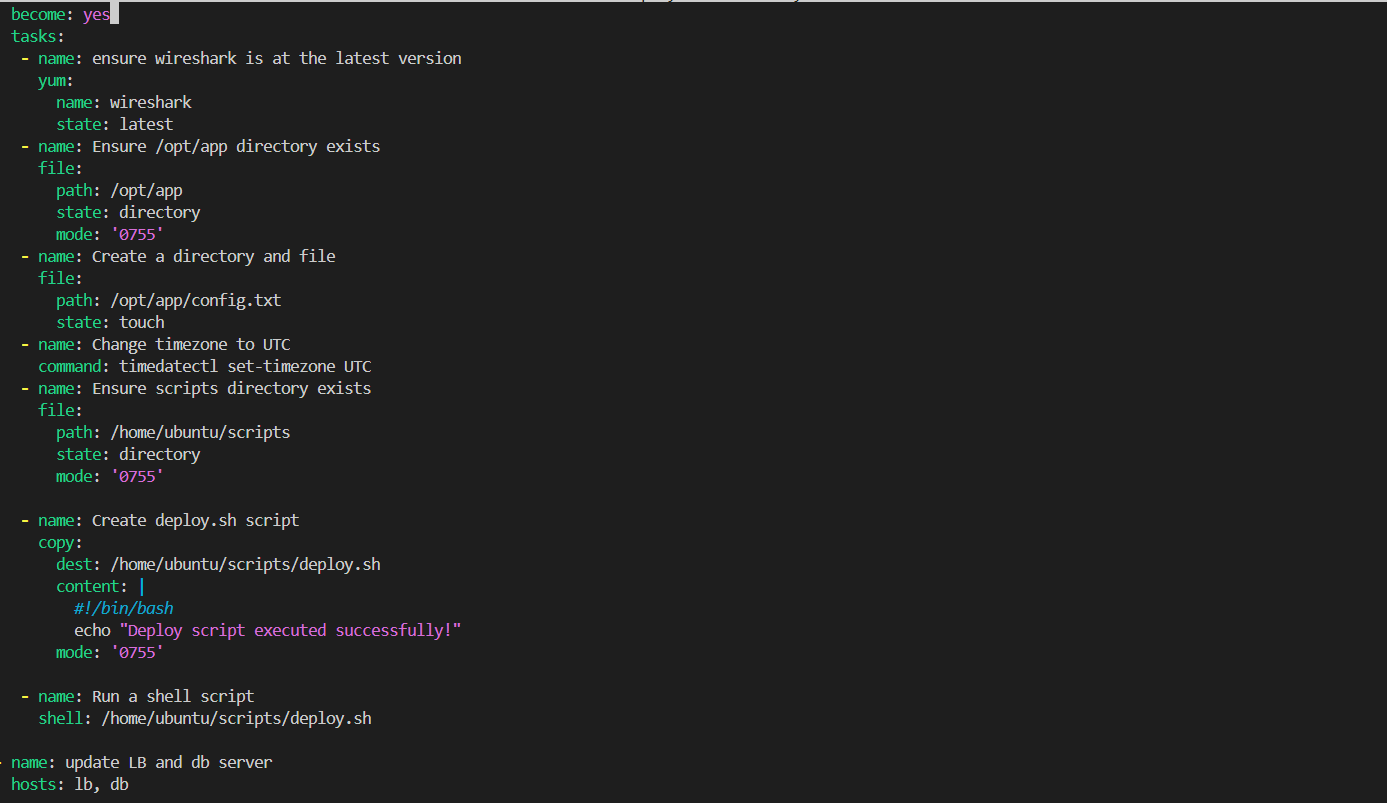
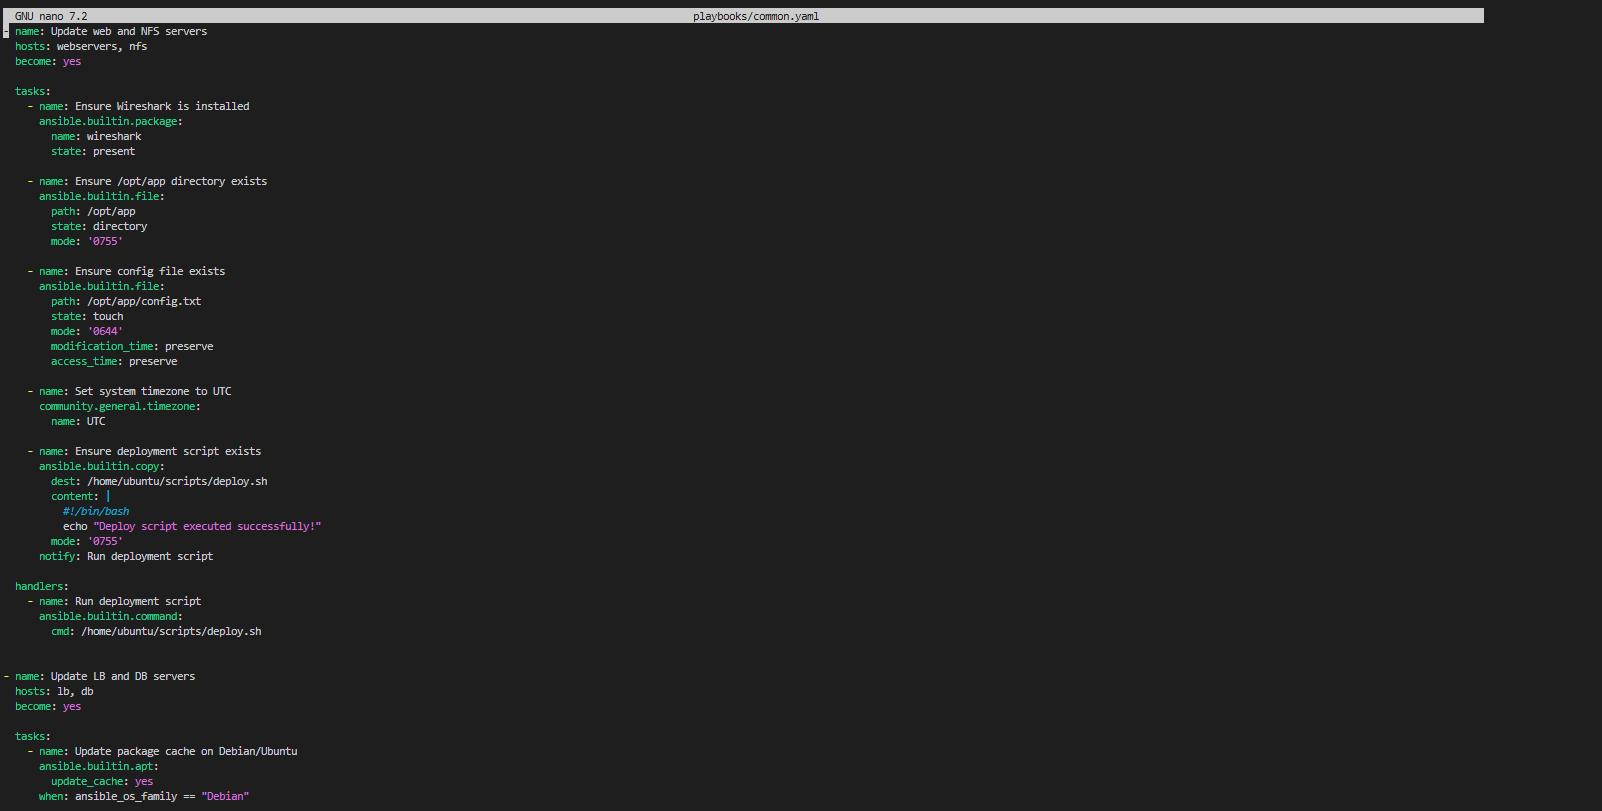
Add images to docs

Changed region(s): [[0.0, 0.0, 0.9301, 0.9963]]

diff --git a/docs.md b/docs.md
@@ -613,16 +613,11 @@ ansible-playbook -i inventory/dev.ini playbooks/common.yaml
 * **Problem**: Ansible execution hangs
 Running ansible-playbook hung indefinitely after displaying ok: [IP_ADDRESS] during host key verification.
 * **Cause**: Ansible operates in non-interactive parallel threads. Because host key checking was active and the remote host keys were not yet accepted in known_hosts, Ansible paused while awaiting background interactive yes/no prompts.
-* **Solution**: Disabled SSH host key checking at the project level by creating an ansible.cfg file in the project root directory with the following configuration:
+* **Solution**: To resolve the non-interactive prompt block, I pre-populated the ~/.ssh/known_hosts file on the control node using ssh-keyscan to fetch and record public host keys for all managed inventory nodes before running playbooks.
 ```
-nano ~ansible-config-mgt/ansible.cfg
-```
-```
-[defaults]
-host_key_checking = False
+sudo -u jenkins bash -c 'ssh-keyscan -H <TARGET_IPs> >> ~/.ssh/known_hosts'
 ```
 Then run the ansible playbook command again
-![screenshot](images/34.png) 
 
 * **Issue**: File Creation Task Failure (/opt/app/config.txt)
 
@@ -630,6 +625,7 @@ Then run the ansible playbook command again
 * **Cause**: The file module with state: touch attempts to create a file inside a directory path (/opt/app), but the parent directory /opt/app did not exist on the target remote hosts.
 * **Resolution**: Updated the playbook to explicitly ensure the target directory exists (state: directory) before creating the file:
 
+Edit the playbook file
 ```
 - name: Ensure /opt/app directory exists
   file:
@@ -643,8 +639,6 @@ Then run the ansible playbook command again
     state: touch
     mode: '0644'
 ```
-Edit the playbook file
-![screenshot](images/35.png)
 Then run the ansible playbook command again
 
 * **Issue**: Shell Script Execution Failure (deploy.sh)
@@ -670,8 +664,8 @@ handlers:
     ansible.builtin.command:
       cmd: /home/ubuntu/scripts/deploy.sh
 ```
-
 ![screenshot](images/36.png)
+
 ![screenshot](images/37.png)
 
 
